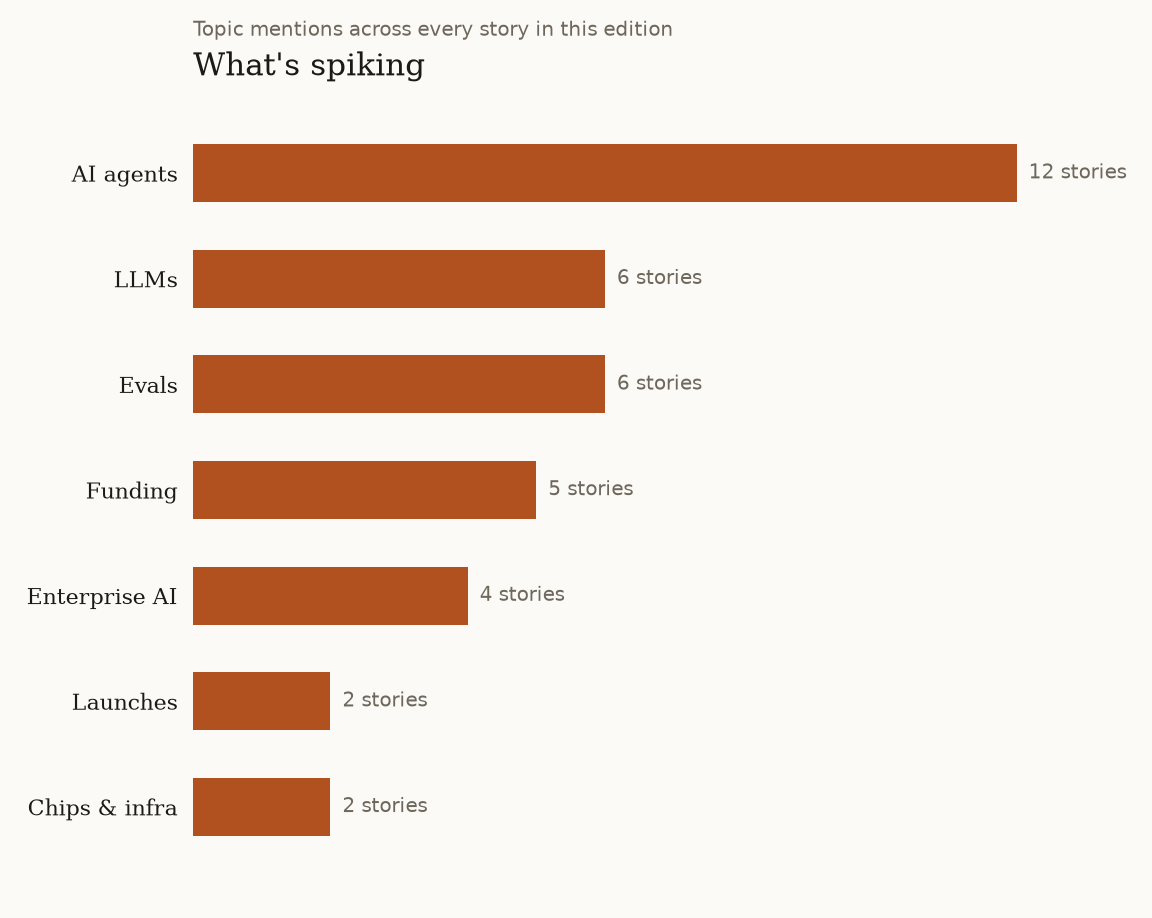
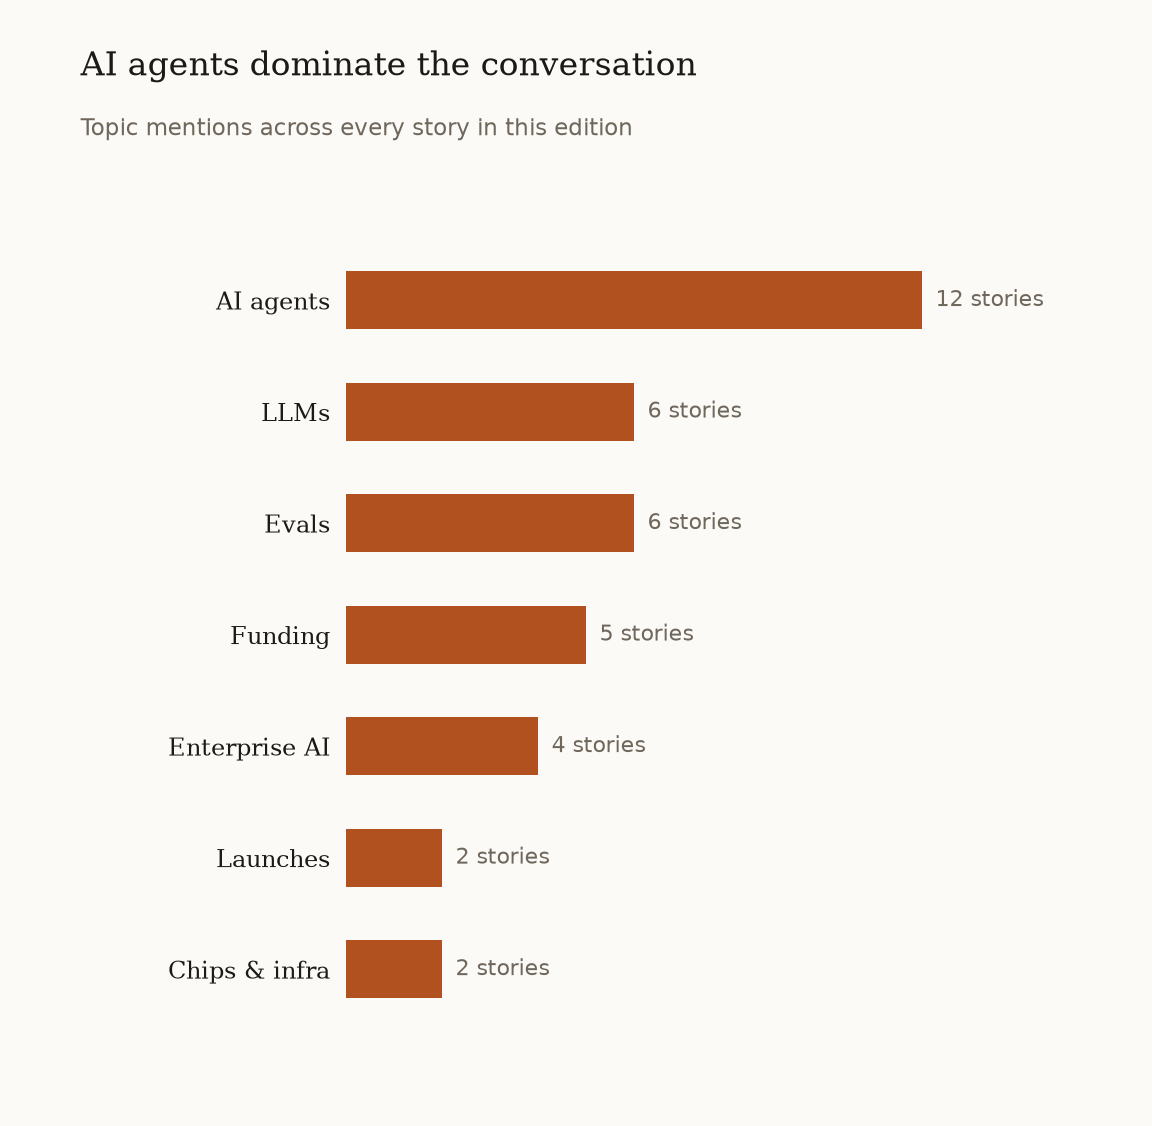
charts: hard rules, drop volume filler, fix title/subtitle overlap
- MIN_DATA_POINTS=3: a chart with fewer than 3 points is never emitted
- Delete volume_chart: it charted the pipeline's own curation targets, not signal
- render_png: measured header layout — subtitle is positioned below the
  rendered title bbox, axes placed below that, so the two can never overlap
- Regenerate the live edition's charts (momentum + sources survive)

diff --git a/data/newsletter-email.html b/data/newsletter-email.html
@@ -14,28 +14,16 @@
     <div style="font-size:11px;letter-spacing:2px;text-transform:uppercase;color:#b0511f;font-weight:bold;padding-bottom:8px;">By the numbers</div>
   </td></tr>
       <tr><td style="padding:18px 0 6px 0;">
-        <div style="font-family:Georgia,serif;font-size:17px;font-weight:bold;color:#1d1a16;">Startup money in the window</div>
-        <div style="font-size:12px;color:#6f675c;padding:2px 0 8px 0;">$5M raised across 1 rounds</div>
-        <img src="https://aadit-field-manual.web.app/charts/2026-10-02/funding.png" alt="Startup money in the window" width="560" style="display:block;width:100%;max-width:560px;height:auto;border:1px solid #e9e2d6;" />
-        <div style="font-size:11px;color:#a39a8c;padding-top:6px;">Parsed from 1 raise announcements in this edition.</div>
-      </td></tr>
-      <tr><td style="padding:18px 0 6px 0;">
-        <div style="font-family:Georgia,serif;font-size:17px;font-weight:bold;color:#1d1a16;">What&#x27;s spiking</div>
+        <div style="font-family:Georgia,serif;font-size:17px;font-weight:bold;color:#1d1a16;">AI agents dominate the conversation</div>
         <div style="font-size:12px;color:#6f675c;padding:2px 0 8px 0;">Topic mentions across every story in this edition</div>
-        <img src="https://aadit-field-manual.web.app/charts/2026-10-02/momentum.png" alt="What&#x27;s spiking" width="560" style="display:block;width:100%;max-width:560px;height:auto;border:1px solid #e9e2d6;" />
+        <img src="https://aadit-field-manual.web.app/charts/2026-10-02/momentum.png" alt="AI agents dominate the conversation" width="560" style="display:block;width:100%;max-width:560px;height:auto;border:1px solid #e9e2d6;" />
         <div style="font-size:11px;color:#a39a8c;padding-top:6px;">Keyword hits across titles and descriptions; not sentiment.</div>
       </td></tr>
       <tr><td style="padding:18px 0 6px 0;">
-        <div style="font-family:Georgia,serif;font-size:17px;font-weight:bold;color:#1d1a16;">Where the signal came from</div>
+        <div style="font-family:Georgia,serif;font-size:17px;font-weight:bold;color:#1d1a16;">Primary sources lead the news coverage</div>
         <div style="font-size:12px;color:#6f675c;padding:2px 0 8px 0;">7 outlets · tier 1 = primary sources</div>
-        <img src="https://aadit-field-manual.web.app/charts/2026-10-02/sources.png" alt="Where the signal came from" width="560" style="display:block;width:100%;max-width:560px;height:auto;border:1px solid #e9e2d6;" />
+        <img src="https://aadit-field-manual.web.app/charts/2026-10-02/sources.png" alt="Primary sources lead the news coverage" width="560" style="display:block;width:100%;max-width:560px;height:auto;border:1px solid #e9e2d6;" />
         <div style="font-size:11px;color:#a39a8c;padding-top:6px;">Tier 1: official announcements/papers. Tier 2: newsrooms. Tier 3: blogs/wires.</div>
-      </td></tr>
-      <tr><td style="padding:18px 0 6px 0;">
-        <div style="font-family:Georgia,serif;font-size:17px;font-weight:bold;color:#1d1a16;">The edition by section</div>
-        <div style="font-size:12px;color:#6f675c;padding:2px 0 8px 0;">Story count per section</div>
-        <img src="https://aadit-field-manual.web.app/charts/2026-10-02/volume.png" alt="The edition by section" width="560" style="display:block;width:100%;max-width:560px;height:auto;border:1px solid #e9e2d6;" />
-        <div style="font-size:11px;color:#a39a8c;padding-top:6px;">Curated items per section in this edition.</div>
       </td></tr>
   
       <tr><td style="padding:26px 0 4px 0;">

diff --git a/services/charts.py b/services/charts.py
@@ -5,6 +5,12 @@ Every chart is computed from the curated items of the current edition —
 no invented figures. If a chart can't be honestly computed (e.g. no
 funding rounds found in the window), it is omitted entirely.
 
+Hard rules:
+- MIN_DATA_POINTS: a chart with fewer than 3 data points is never
+  emitted. A one-bar chart says nothing.
+- No filler charts: nothing here may chart the pipeline's own config
+  (e.g. "edition by section" curation targets) — signal only.
+
 Two outputs:
 1. ``data/charts.json`` — chart specs the React frontend renders as SVG.
 2. ``web/public/charts/<edition-id>/<chart-id>.png`` — matplotlib renders
@@ -18,6 +24,7 @@ Chart spec shape::
      "note": "how this was computed"}
 """
 import json
+import textwrap
 from pathlib import Path
 
 from .curator import extract_funding, source_name, source_tier
@@ -29,6 +36,9 @@ MUTED = "#6f675c"
 ACCENT = "#b0511f"
 ACCENT_SOFT = "#d99a6c"
 LINE = "#e9e2d6"
+
+# A chart with fewer points than this is decoration, not information.
+MIN_DATA_POINTS = 3
 
 MOMENTUM_KEYWORDS = [
     ("AI agents", ("agent", "agents", "agentic")),
@@ -61,7 +71,7 @@ def funding_chart(curated):
         f = extract_funding(item)
         if f and all(r["source_url"] != f["source_url"] for r in raises):
             raises.append(f)
-    if not raises:
+    if len(raises) < MIN_DATA_POINTS:
         return None
     raises.sort(key=lambda r: -r["amount_usd"])
     top = raises[:8]
@@ -94,7 +104,7 @@ def momentum_chart(curated):
                 n += 1
         if n >= 2:
             counts.append({"label": label, "value": n, "detail": f"{n} stories"})
-    if len(counts) < 2:
+    if len(counts) < MIN_DATA_POINTS:
         return None
     counts.sort(key=lambda c: -c["value"])
     return {
@@ -117,7 +127,7 @@ def source_mix_chart(curated):
         src = source_name(item.get("url", ""))
         counts[src] += 1
         tiers[src] = source_tier(item.get("url", ""))
-    if len(counts) < 2:
+    if len(counts) < MIN_DATA_POINTS:
         return None
     data = [{"label": s[:26], "value": n, "detail": f"tier {tiers[s]}",
              "tier": tiers[s]}
@@ -133,30 +143,10 @@ def source_mix_chart(curated):
     }
 
 
-def volume_chart(curated):
-    """Story volume per section."""
-    titles = {"signal": "The Signal", "tech": "The Wider Current",
-              "startups": "Startups", "podcasts": "Podcast Circuit"}
-    data = [{"label": titles.get(s, s), "value": len(items),
-             "detail": f"{len(items)} stories"}
-            for s, items in curated.items() if items]
-    if len(data) < 2:
-        return None
-    return {
-        "id": "volume",
-        "title": "The edition by section",
-        "subtitle": "Story count per section",
-        "kind": "bar",
-        "unit": "stories",
-        "data": data,
-        "note": "Curated items per section in this edition.",
-    }
-
-
 def build_charts(curated):
     """Compute all honest charts. Returns the list of chart specs."""
     charts = []
-    for fn in (funding_chart, momentum_chart, source_mix_chart, volume_chart):
+    for fn in (funding_chart, momentum_chart, source_mix_chart):
         spec = fn(curated)
         if spec:
             charts.append(spec)
@@ -165,8 +155,48 @@ def build_charts(curated):
 
 # ---------------------------------------------------------------- PNG export
 
+def _draw_header(fig, spec):
+    """Title + subtitle as separate figure-coordinate text artists.
+
+    The subtitle is positioned by *measuring* the rendered title: after an
+    initial draw, the subtitle is placed a fixed gap below the title's
+    bounding box, then the header's bottom edge is measured again. The
+    caller places the axes below that edge. The title can never render on
+    top of the subtitle, regardless of length (long titles wrap).
+    Returns (title_artist, subtitle_artist, header_bottom_fig_y).
+    """
+    title = "\n".join(textwrap.wrap(spec["title"], width=58))
+    subtitle = "\n".join(textwrap.wrap(spec["subtitle"], width=88))
+    t = fig.text(0.07, 0.96, title, fontsize=15, color=INK,
+                 fontfamily="serif", ha="left", va="top", linespacing=1.3)
+    # Temporary spot; repositioned after the title is measured.
+    s = fig.text(0.07, 0.5, subtitle, fontsize=10.5, color=MUTED,
+                 ha="left", va="top", linespacing=1.25)
+
+    fig.canvas.draw()
+    renderer = fig.canvas.get_renderer()
+    title_bb = t.get_window_extent(renderer=renderer)
+    fig_h_pt = fig.get_figheight() * 72
+    inv = fig.transFigure.inverted()
+    _, title_bottom = inv.transform((0, title_bb.y0))
+    gap = 12 / fig_h_pt
+    s.set_position((0.07, title_bottom - gap))
+
+    fig.canvas.draw()
+    renderer = fig.canvas.get_renderer()
+    sub_bb = s.get_window_extent(renderer=renderer)
+    _, sub_bottom = inv.transform((0, sub_bb.y0))
+    header_bottom = sub_bottom - 10 / fig_h_pt
+    return t, s, header_bottom
+
+
 def render_png(spec, path, width_in=7.2):
-    """Render one chart spec to PNG in the editorial palette."""
+    """Render one chart spec to PNG in the editorial palette.
+
+    The header (title/subtitle) is drawn first and measured; the axes are
+    placed below the measured header bottom. No tight_layout, no
+    transAxes guessing — the two text blocks can never overlap or clip.
+    """
     import matplotlib
     matplotlib.use("Agg")
     import matplotlib.pyplot as plt
@@ -174,10 +204,19 @@ def render_png(spec, path, width_in=7.2):
     labels = [d["label"] for d in spec["data"]]
     values = [d["value"] for d in spec["data"]]
     n = len(labels)
-    height_in = max(2.2, 0.62 * n + 1.4)
+    hbar = spec["kind"] == "hbar"
 
-    fig, ax = plt.subplots(figsize=(width_in, height_in), dpi=160)
+    height_in = max(3.4, 0.72 * n + 2.0) if hbar else 4.2
+    fig = plt.figure(figsize=(width_in, height_in), dpi=160)
     fig.patch.set_facecolor(PAPER)
+
+    _, _, header_bottom = _draw_header(fig, spec)
+    axes_top = header_bottom - 0.03
+    if hbar:
+        # Left gutter sized for serif category labels.
+        ax = fig.add_axes([0.30, 0.05, 0.66, axes_top - 0.05])
+    else:
+        ax = fig.add_axes([0.08, 0.12, 0.88, axes_top - 0.12])
     ax.set_facecolor(PAPER)
 
     colors = []
@@ -186,37 +225,38 @@ def render_png(spec, path, width_in=7.2):
         colors.append(ACCENT if tier in (None, 1) else
                       ACCENT_SOFT if tier == 2 else "#c9bfae")
 
-    if spec["kind"] == "hbar":
+    if hbar:
         y = list(range(n))[::-1]
-        ax.barh(y, values, height=0.55, color=colors, edgecolor="none")
+        ax.barh(y, values, height=0.52, color=colors, edgecolor="none")
         ax.set_yticks(y)
-        ax.set_yticklabels(labels, fontsize=10, color=INK,
+        ax.set_yticklabels(labels, fontsize=11, color=INK,
                            fontfamily="serif")
+        # Headroom so value labels never run off the right edge.
+        ax.set_xlim(0, max(values) * 1.32)
         for yy, v, d in zip(y, values, spec["data"]):
             ax.text(v, yy, f"  {d.get('detail') or v}", va="center",
-                    fontsize=9, color=MUTED)
-        ax.set_ylim(-0.8, n - 0.2)
+                    fontsize=10, color=MUTED)
+        ax.set_ylim(-0.9, n - 0.1)
+        ax.set_xticks([])
+        ax.tick_params(left=False)
     else:
         x = list(range(n))
         bars = ax.bar(x, values, width=0.55, color=colors, edgecolor="none")
         ax.set_xticks(x)
-        ax.set_xticklabels(labels, fontsize=10, color=INK, fontfamily="serif",
-                           rotation=0, ha="center")
+        rot = 25 if n > 5 else 0
+        ax.set_xticklabels(labels, fontsize=11, color=INK, fontfamily="serif",
+                           rotation=rot, ha="right" if rot else "center")
+        ax.set_ylim(0, max(values) * 1.25)
         for b, v, d in zip(bars, values, spec["data"]):
             ax.text(b.get_x() + b.get_width() / 2, v,
                     f"{d.get('detail') or v}", ha="center", va="bottom",
-                    fontsize=9, color=MUTED)
+                    fontsize=10, color=MUTED)
+        ax.set_yticks([])
+        ax.tick_params(bottom=False)
 
-    ax.set_title(spec["title"], fontsize=14, color=INK, fontfamily="serif",
-                 loc="left", pad=6)
-    ax.text(0, 1.06, spec["subtitle"], transform=ax.transAxes, fontsize=9,
-            color=MUTED, va="bottom", ha="left")
     for spine in ax.spines.values():
         spine.set_visible(False)
-    ax.tick_params(left=False, bottom=False)
-    ax.set_xticks([]) if spec["kind"] == "hbar" else ax.set_yticks([])
     ax.grid(False)
-    fig.tight_layout(pad=1.2)
     path.parent.mkdir(parents=True, exist_ok=True)
     fig.savefig(path, facecolor=PAPER)
     plt.close(fig)

diff --git a/tests/test_pipeline.py b/tests/test_pipeline.py
@@ -487,6 +487,10 @@ def _chart_items():
              "description": "BetaCo secures $120M seed.",
              "url": "https://techcrunch.com/2", "shelf": "startups",
              "queries": ["r"], "score": 0.8, "published": "2026-10-01"},
+            {"title": "GammaCo raises $30M Series A",
+             "description": "GammaCo raises $30M Series A for agents.",
+             "url": "https://techcrunch.com/3", "shelf": "startups",
+             "queries": ["r"], "score": 0.75, "published": "2026-10-02"},
         ],
         "podcasts": [],
     }
@@ -497,15 +501,49 @@ def test_charts_are_honest_aggregates():
     specs = charts.build_charts(_chart_items())
     by_id = {s["id"]: s for s in specs}
     funding = by_id["funding"]
-    assert funding["subtitle"] == "$170M raised across 2 rounds"
-    assert [d["label"] for d in funding["data"]] == ["BetaCo", "Acme"]
+    assert funding["subtitle"] == "$200M raised across 3 rounds"
+    assert [d["label"] for d in funding["data"]] == ["BetaCo", "Acme", "GammaCo"]
     assert funding["data"][0]["value"] == 120.0
-    volume = by_id["volume"]
-    assert {d["label"]: d["value"] for d in volume["data"]}["Startups"] == 2
     sources = by_id["sources"]
     assert sources["data"][0]["label"] == "TechCrunch"
     # every value traces to a real item
     assert all(d["value"] > 0 for s in specs for d in s["data"])
+
+
+def test_charts_min_data_points():
+    """Fewer than 3 data points -> no chart, never a one-bar decoration."""
+    from services import charts
+    two_raises = {"startups": [
+        {"title": "Acme raises $50M Series A", "description": "Acme raises $50M.",
+         "url": "https://techcrunch.com/1"},
+        {"title": "BetaCo secures $120M", "description": "BetaCo secures $120M.",
+         "url": "https://techcrunch.com/2"},
+    ], "tech": []}
+    assert charts.funding_chart(two_raises) is None
+
+    two_topics = {"signal": [
+        {"title": "Agent news", "description": "Agents everywhere.",
+         "url": "https://a.com/1"},
+        {"title": "More agents", "description": "LLM agents ship.",
+         "url": "https://a.com/2"},
+    ]}
+    assert charts.momentum_chart(two_topics) is None
+
+    two_sources = {"signal": [
+        {"title": "T1", "description": "x", "url": "https://openai.com/1"},
+        {"title": "T2", "description": "x", "url": "https://openai.com/2"},
+        {"title": "T3", "description": "x", "url": "https://anthropic.com/1"},
+    ]}
+    # only 2 distinct outlets -> dropped
+    assert charts.source_mix_chart(two_sources) is None
+
+
+def test_volume_chart_removed():
+    """The 'edition by section' filler chart is gone for good."""
+    from services import charts
+    assert not hasattr(charts, "volume_chart")
+    ids = [s["id"] for s in charts.build_charts(_chart_items())]
+    assert "volume" not in ids
 
 
 def test_charts_omit_when_no_data():
@@ -535,15 +573,15 @@ def test_email_html_is_email_safe():
         "stats": {"items": 1, "sections": 1, "sources": 1},
     }
     charts_specs = [{
-        "id": "volume", "title": "Volume", "subtitle": "Sub", "kind": "bar",
-        "unit": "stories", "data": [{"label": "A", "value": 2}],
+        "id": "momentum", "title": "Momentum", "subtitle": "Sub", "kind": "bar",
+        "unit": "mentions", "data": [{"label": "A", "value": 2}],
         "note": "Note.",
     }]
     out = emailer.render_email(letter, charts_specs, "2026-10-02")
     assert "<table" in out and 'style="' in out
     assert "flex" not in out and "grid-template" not in out
     assert "&lt;bait&gt;" in out and "&lt;one&gt;" in out  # escaped
-    assert "https://aadit-field-manual.web.app/charts/2026-10-02/volume.png" in out
+    assert "https://aadit-field-manual.web.app/charts/2026-10-02/momentum.png" in out
     assert "Reply to this email to unsubscribe" in out
     assert "<script" not in out
 
@@ -555,3 +593,39 @@ def test_subscribers_doc_mapping():
     sub = _doc_to_subscriber(doc)
     assert sub == {"name": "Ada", "email": "ADA@Example.COM"}
     assert _doc_to_subscriber({"fields": {}}) == {"name": "", "email": ""}
+
+
+# ---------------------------------------------------------------- PNG layout
+
+def test_render_header_no_overlap():
+    """Title and subtitle can never collide, however long the title."""
+    import matplotlib
+    matplotlib.use("Agg")
+    import matplotlib.pyplot as plt
+    from services import charts
+
+    fig = plt.figure(figsize=(7.2, 4.2), dpi=100)
+    spec = {
+        "title": ("Agents dominate the conversation this week and the "
+                  "momentum keeps building across every section"),
+        "subtitle": "Topic mentions across every story in this 48-hour edition",
+    }
+    t, s, header_bottom = charts._draw_header(fig, spec)
+    # Place the axes exactly the way render_png does.
+    axes_top = header_bottom - 0.03
+    ax = fig.add_axes([0.30, 0.05, 0.66, axes_top - 0.05])
+    fig.canvas.draw()
+    renderer = fig.canvas.get_renderer()
+    tb = t.get_window_extent(renderer=renderer)
+    sb = s.get_window_extent(renderer=renderer)
+    ab = ax.get_window_extent(renderer=renderer)
+    assert tb.y0 >= sb.y1, "title overlaps subtitle"
+    assert sb.y0 >= ab.y1, "subtitle overlaps the chart area"
+    plt.close(fig)
+
+
+def test_render_png_writes_file(tmp_path):
+    from services import charts
+    spec = _editor_specs()[0]
+    out = charts.render_png(spec, tmp_path / "momentum.png")
+    assert out.exists() and out.stat().st_size > 10_000

diff --git a/README.md b/README.md
@@ -22,7 +22,8 @@ Every edition covers exactly the last 48 hours. Nothing older.
 - `services/curator.py` — source reliability tiers (1: official/papers, 2: newsrooms, 3: blogs/wires) weight the relevance score; dedupe by normalized URL *and* title similarity; `filter_recent` prefers RSS pub dates; `extract_funding` pulls company + USD amount + round from raise announcements (both required — never invented).
 - `services/writer.py` — the model is a stylist, never a researcher: the pipeline supplies every fact deterministically; one constrained OpenAI call per item writes the briefing, one per section weaves the narrative, one writes the edition lede. Template fallback + circuit breaker when the API is unavailable.
 - `services/compiler.py` — assembles the edition: lede, sections with narratives and closing takes, Worth Your Time picks.
-- `services/charts.py` — honest aggregates only (startup funding, topic momentum, source mix, section volume). A chart that can't be computed from the gathered items is omitted, not faked. Specs go to `data/charts.json`; matplotlib renders email-ready PNGs into `web/public/charts/<edition>/`.
+- `services/charts.py` — honest aggregates only (startup funding, topic momentum, source mix). Hard rules: no chart with fewer than 3 data points, no filler. Specs go to `data/charts.json`; matplotlib renders email-ready PNGs into `web/public/charts/<edition>/`.
+- `services/chart_editor.py` — one constrained OpenAI call per edition: KEEP/REDESIGN/DROP per chart, insight-stating titles, right chart type. Never touches data; any failure keeps the computed charts.
 - `services/emailer.py` — renders `data/newsletter-email.html`: table-based, inline CSS, light theme, absolute URLs, hosted chart images. Footer: reply to unsubscribe (manual handling).
 - `services/subscribers.py` — fetches the Firestore `subscribers` collection for the scheduled send.
 - `VOICE.md` — the editorial voice, researched from Acquired and All In.

diff --git a/SCHEMA.md b/SCHEMA.md
@@ -77,7 +77,7 @@
   "edition": "2026-10-02",
   "charts": [
     {
-      "id": "funding",               // funding | momentum | sources | volume
+      "id": "funding",               // funding | momentum | sources
       "title": "Startup money in the window",
       "subtitle": "$170M raised across 2 rounds",
       "kind": "hbar",                // hbar | bar
